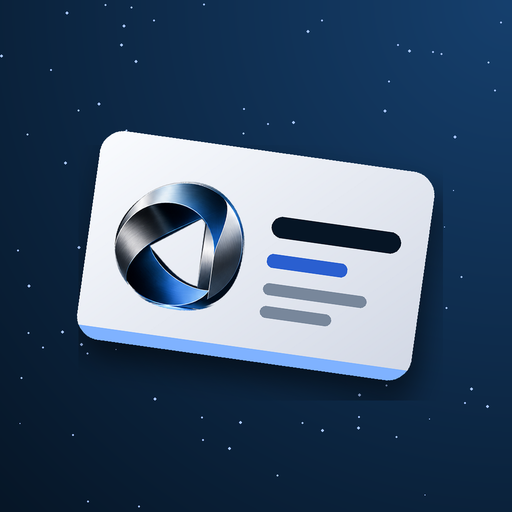
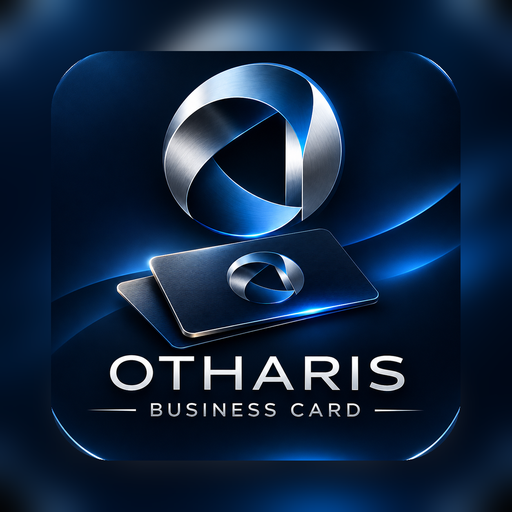
Icona e nome Otharis Business Card
Claude-Session: https://claude.ai/code/session_01CRupTKh9ffco2g49xQeY4N

diff --git a/index.html b/index.html
@@ -5,7 +5,7 @@
   <meta name="viewport" content="width=device-width, initial-scale=1, viewport-fit=cover">
   <meta name="theme-color" content="#061525">
   <meta name="description" content="La tua rubrica di biglietti da visita e il tuo biglietto digitale con QR">
-  <title>Otharis Ticket</title>
+  <title>Otharis Business Card</title>
   <link rel="manifest" href="manifest.webmanifest">
   <link rel="icon" href="icons/icon-192.png">
   <link rel="apple-touch-icon" href="icons/icon-192.png">
@@ -286,7 +286,7 @@
 
   <div id="installBar" class="install-bar hidden">
     <img src="icons/icon-192.png" alt="">
-    <div><b>Otharis Ticket</b><small>Mettila nella Home come un'app</small></div>
+    <div><b>Otharis Business Card</b><small>Mettila nella Home come un'app</small></div>
     <button id="installBtn" class="btn primary small">Installa</button>
     <button id="installClose" class="install-x" aria-label="Chiudi">&times;</button>
   </div>

diff --git a/sw.js b/sw.js
@@ -1,5 +1,5 @@
 // Service worker: l'app funziona anche senza internet (utile in fiera)
-const VERSION = 'v7';
+const VERSION = 'v8';
 const SHELL = `shell-${VERSION}`;
 const VENDOR = 'vendor-v1';
 const SHELL_FILES = ['./', 'index.html', 'style.css', 'app.js', 'parse.js', 'db.js', 'lock.js', 'profili.js', 'manifest.webmanifest', 'icons/icon-192.png', 'icons/icon-512.png', 'icons/icon-maskable-512.png', 'vendor/qrcode.js', 'vendor/fonts/manrope-latin-400-normal.woff2', 'vendor/fonts/manrope-latin-500-normal.woff2', 'vendor/fonts/manrope-latin-600-normal.woff2', 'vendor/fonts/manrope-latin-700-normal.woff2', 'vendor/fonts/manrope-latin-800-normal.woff2'];

diff --git a/app.js b/app.js
@@ -1318,7 +1318,7 @@ window.addEventListener('beforeinstallprompt', (e) => {
 });
 window.addEventListener('appinstalled', () => {
   $('#installBar').classList.add('hidden');
-  toast('Fatto! Trovi Otharis Ticket nella schermata Home', 4000);
+  toast('Fatto! Trovi Otharis Business Card nella schermata Home', 4000);
 });
 $('#installBtn').onclick = async () => {
   if (!installEvt) return;
